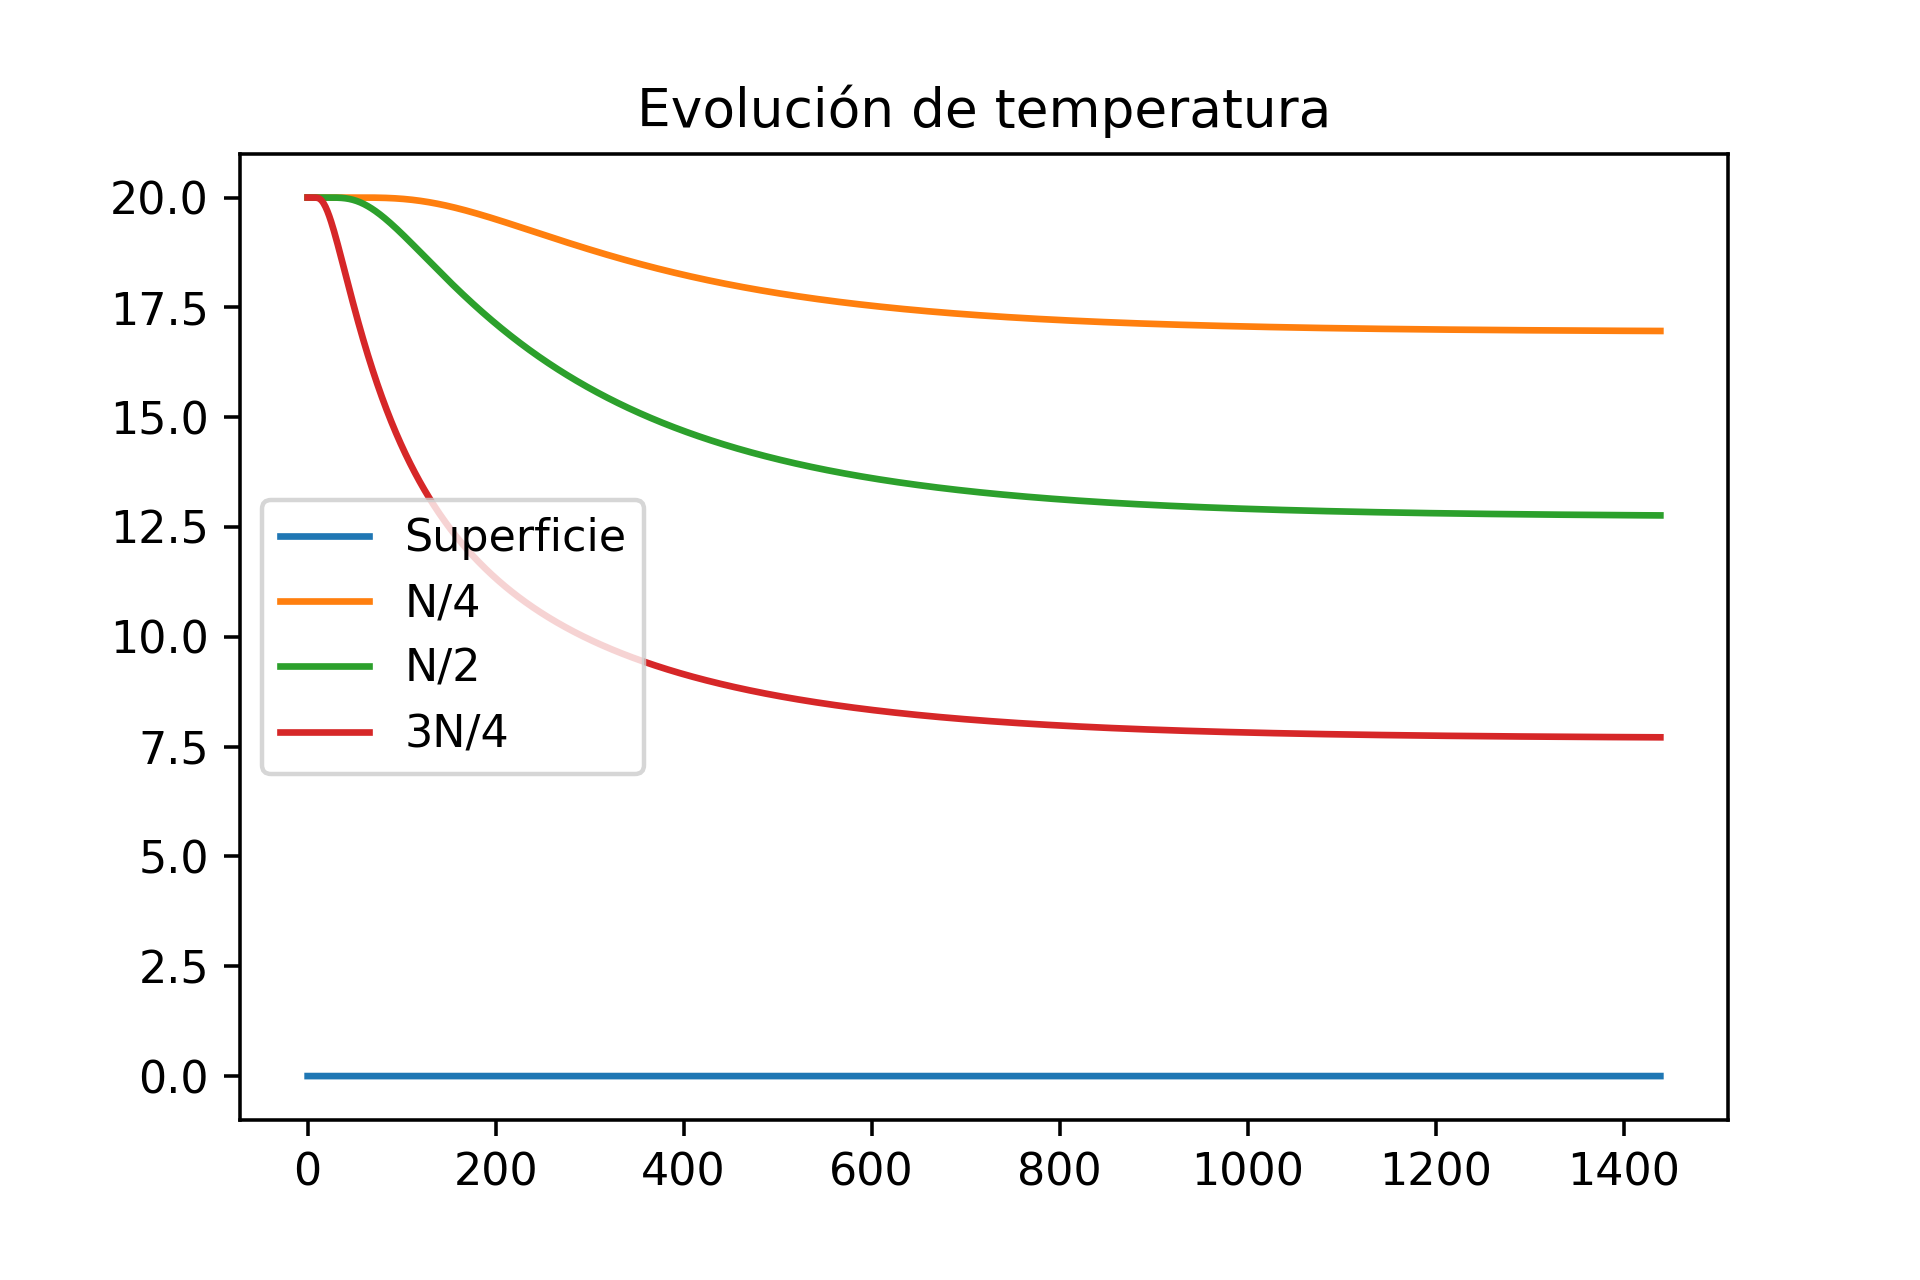
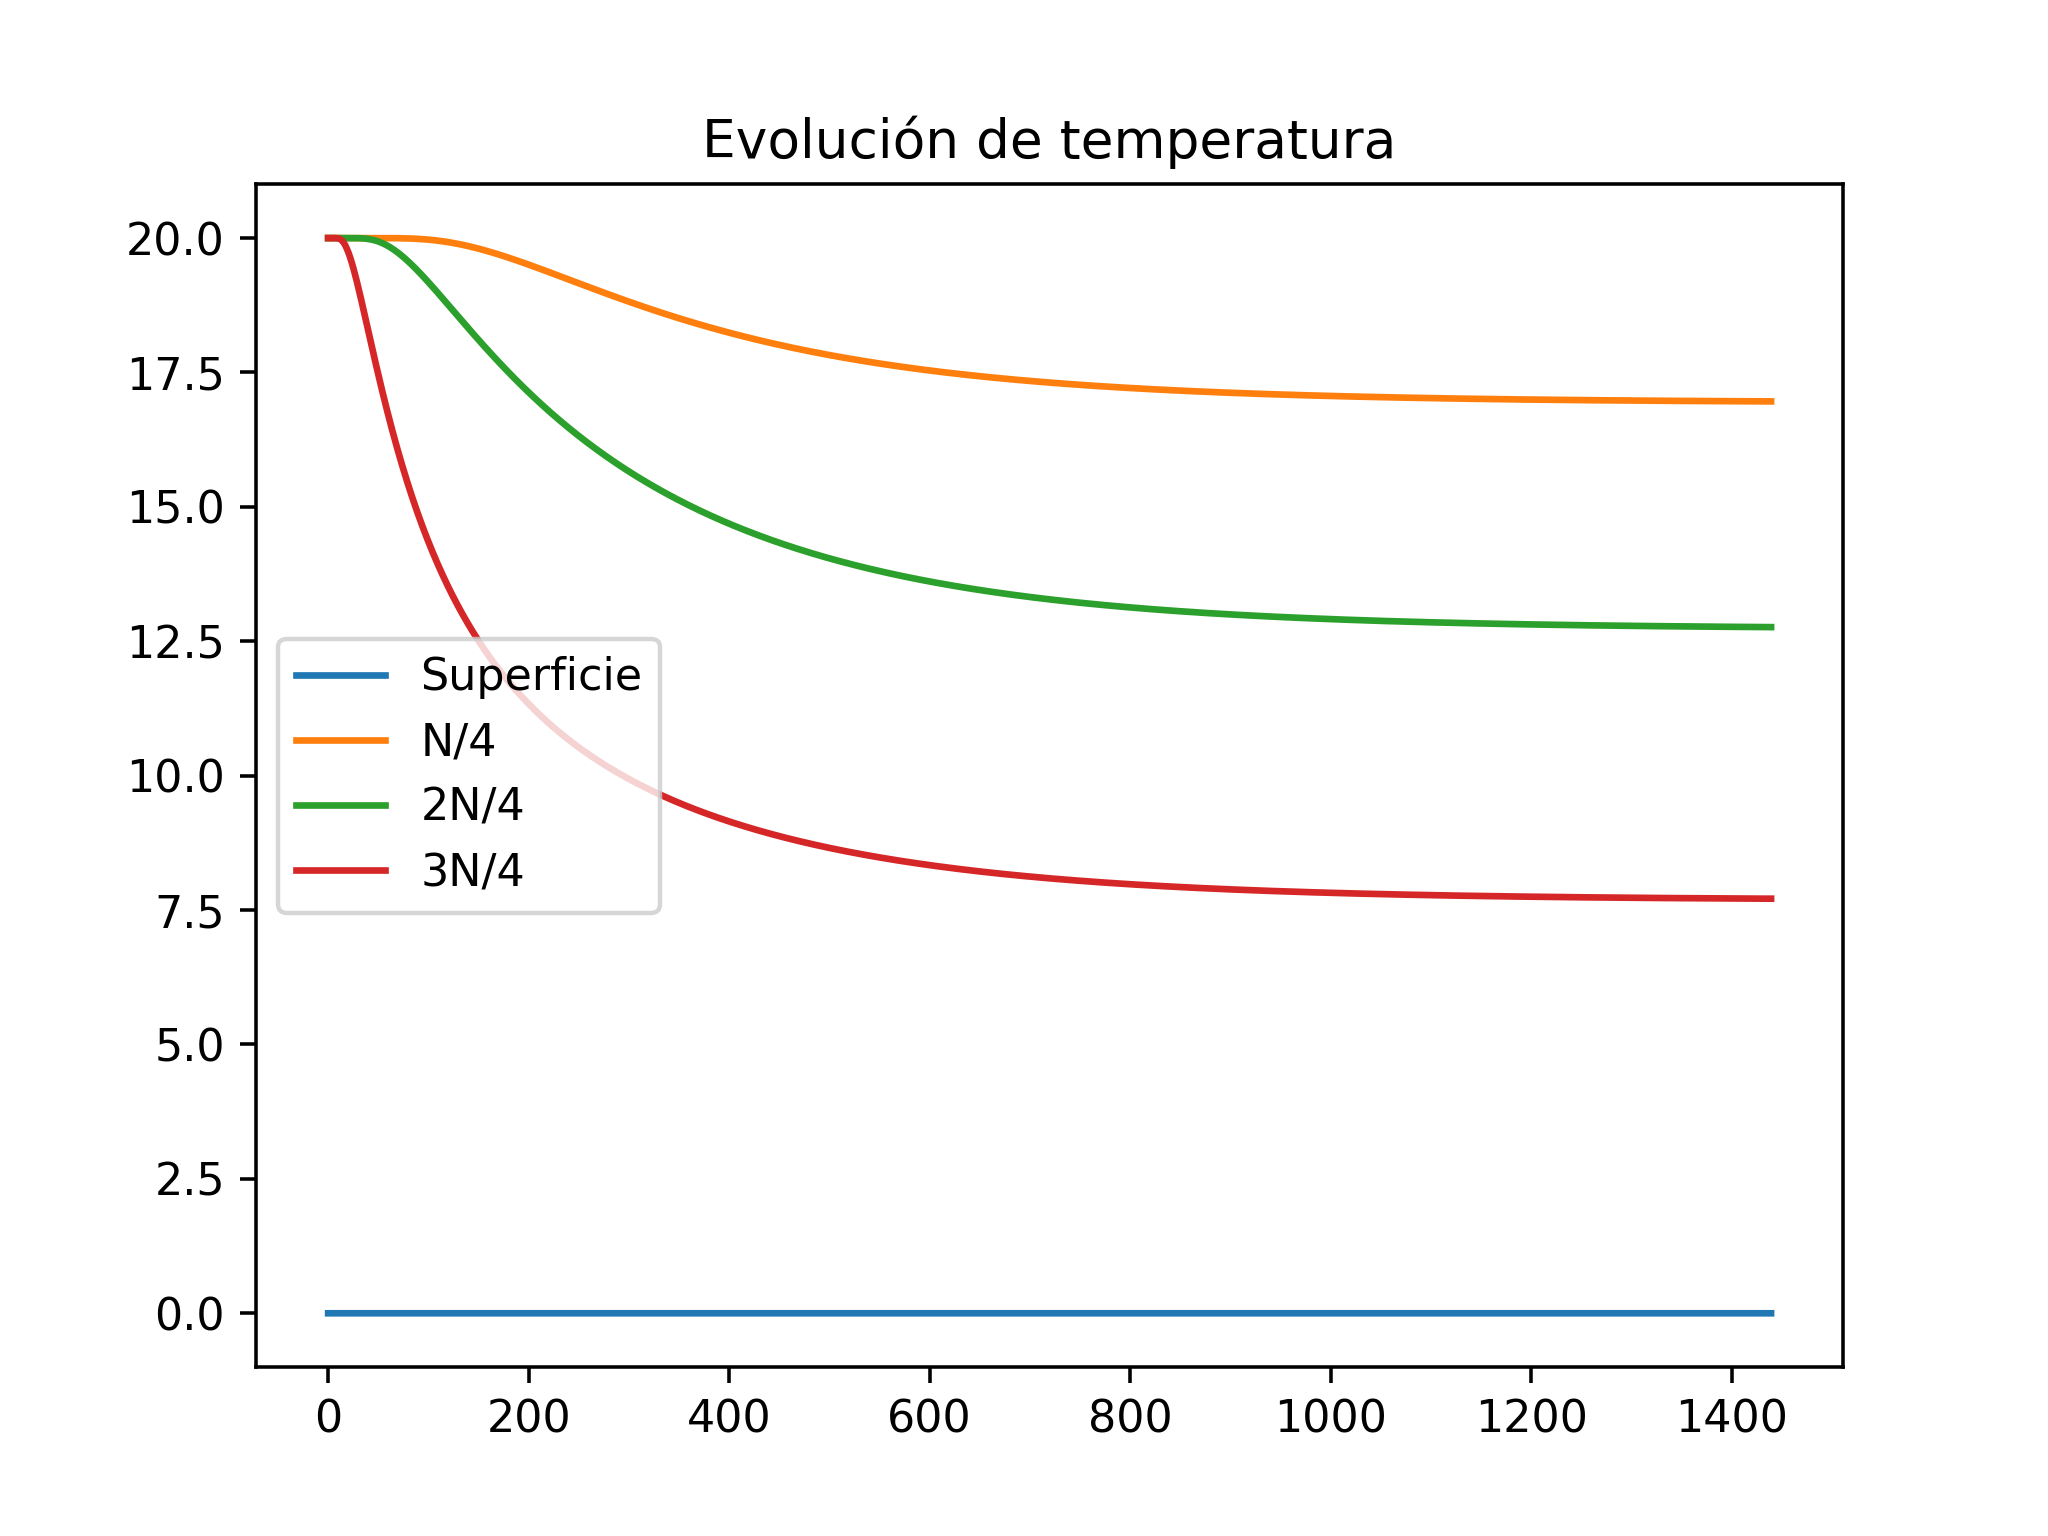
caso2

diff --git a/Entrega_5/caso_2.py b/Entrega_5/caso_2.py
@@ -156,7 +156,7 @@ for k in range(int32(Days/dt)):
 figure(2)
 plot(range(int32(Days / dt)), u_0, label='Superficie')
 plot(range(int32(Days / dt)), u_N4, label='N/4')
-plot(range(int32(Days / dt)), u_2N4, label='N/2')
+plot(range(int32(Days / dt)), u_2N4, label='2N/4')
 plot(range(int32(Days / dt)), u_3N4, label='3N/4')
 title("Evolución de temperatura")
 legend()

diff --git a/Entrega_5/GIFY.py b/Entrega_5/GIFY.py
@@ -9,8 +9,8 @@ def natural_keys(text):
     return[atoi(c) for c in re.split(r'(\d+)', text)]
 
 #Frame
-fp_in = "Caso1/frame_*.png"
-fp_out = "caso_1.gif"
+fp_in = "Caso2/frame_*.png"
+fp_out = "caso_2.gif"
 
 listaImagenes = sorted(glob.glob(fp_in))
 print("sorted(glob.glob(fp_in)): ", listaImagenes)
